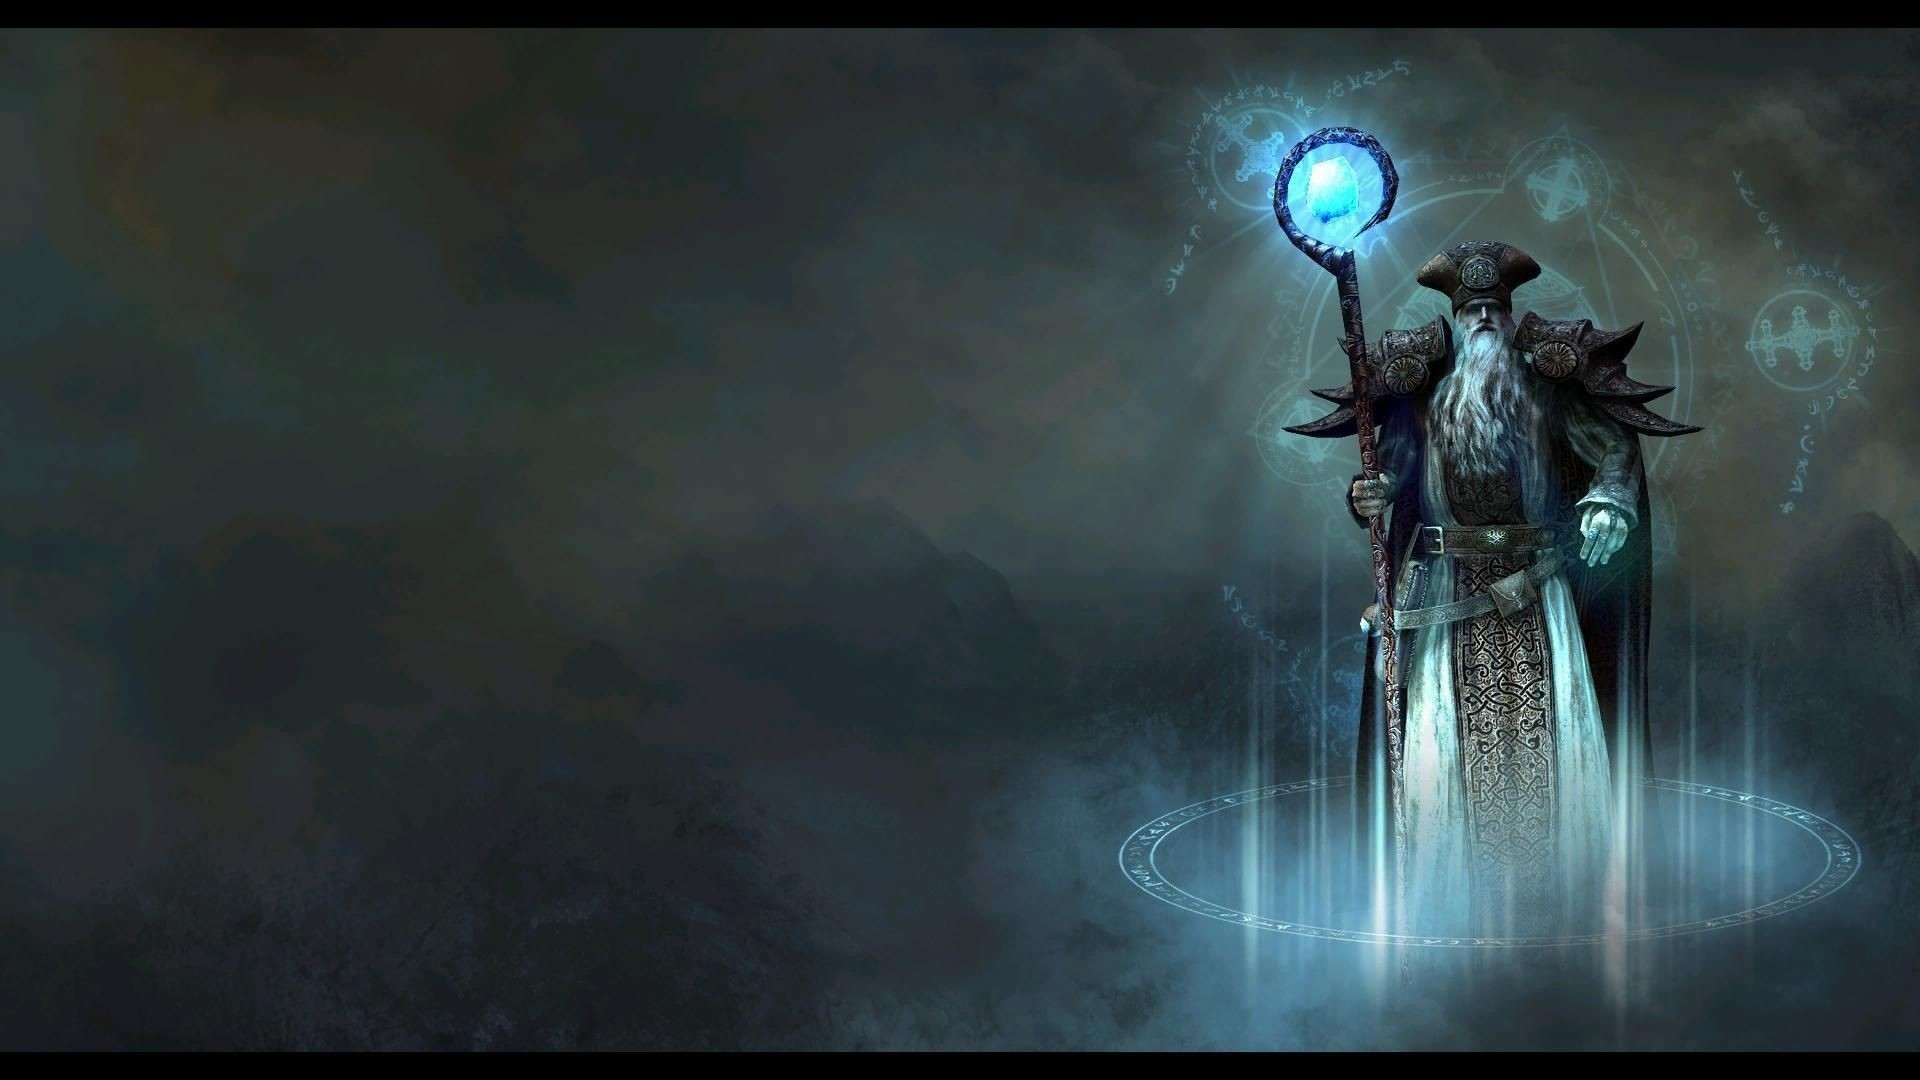
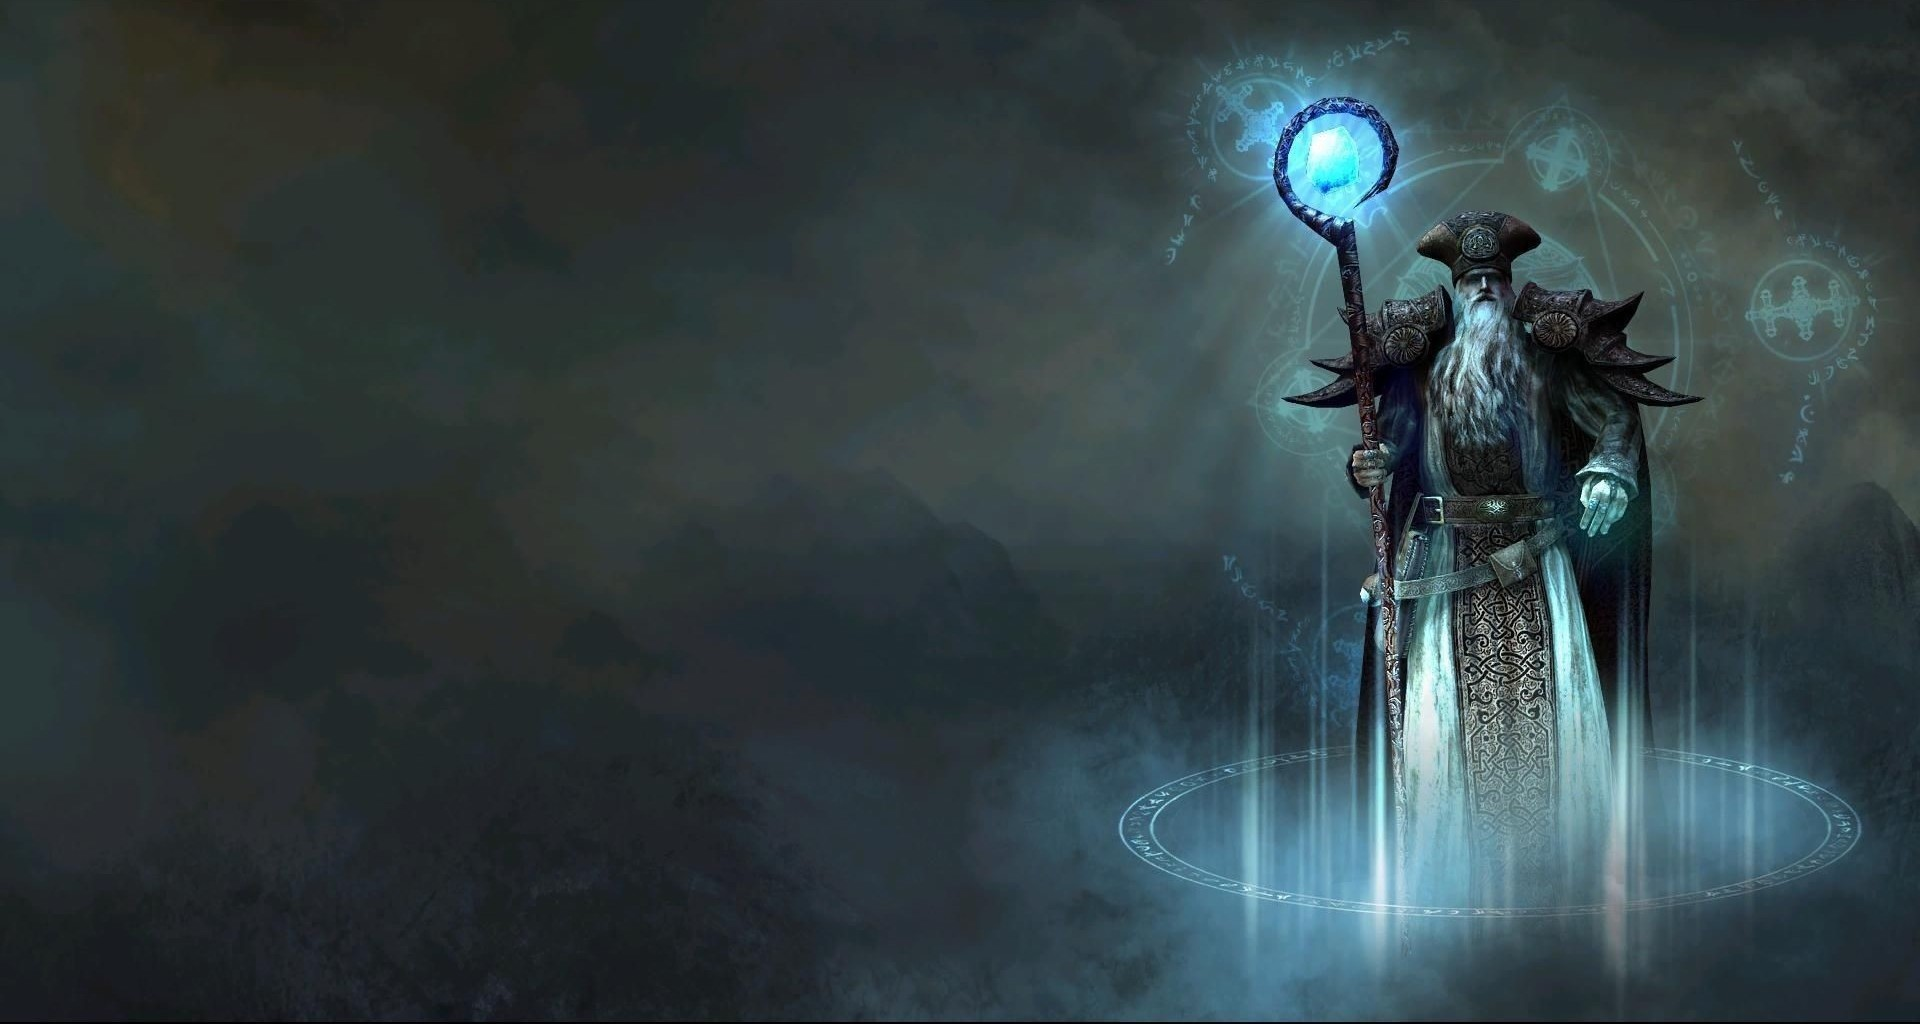
add pause and quit buttons

diff --git a/index.html b/index.html
@@ -13,23 +13,28 @@
     <script src="js/fireball.js"></script>
   </head>
   <body>
-    <!-- <div class="icons">
-      <a href="https://www.linkedin.com/in/justin-lieu-024744150/" target="_blank"><i class="fa fa-linkedin fa-2x"></i></a>
-      <a href="https://github.com/JustinLieu06/codingwizard" target="_blank"><i class="fa fa-github fa-2x"></i></a>
-      <a href="https://angel.co/justin-lieu?public_profile=1" target="_blank"><i class="fa fa-angellist fa-2x"></i></a>
-    </div> -->
     <div class="score">
-        <span>Lives:</span>
-        <span id="lives">4</span>
-        <span>Score:</span>
-        <span id="score">0</span>
-      </div>
+      <span>Lives:</span>
+      <span id="lives">4</span>
+      <span>Score:</span>
+      <span id="score">0</span>
+      <button onclick="stop()" id="pause">Pause</button>
+      <button onclick="end()" id="pause">Quit</button>
+    </div>
     <div class="gameCanvas"><canvas></canvas></div>
 
     <div id="startWrapper">
+      <div class="icons">
+        <a href="https://www.linkedin.com/in/justin-lieu-024744150/" target="_blank"><i class="fa fa-linkedin fa-2x"></i></a>
+        <a href="https://github.com/JustinLieu06/codingwizard" target="_blank"><i class="fa fa-github fa-2x"></i></a>
+        <a href="https://angel.co/justin-lieu?public_profile=1" target="_blank"><i class="fa fa-angellist fa-2x"></i></a>
+      </div>
       <h1 id="title">Coding Wizard</h1>
+      <button type="button" id="startBtn" onclick="loop()">Start</button>
+      
+      <div id="gameOver">Game Over</div>
 
-      <div class="hover"><div class="hover-inner"><i class="fa fa-arrow-circle-down"></i> INSTRUCTIONS <i class="fa fa-arrow-circle-down"></i></div>
+      <div class="hover" id="hover"><div class="hover-inner"><i class="fa fa-arrow-circle-down"></i> INSTRUCTIONS <i class="fa fa-arrow-circle-down"></i></div>
       <div class="instructions">
         <h3>Overview:</h3>
         <div id="inst">You are playing as a coding wizard who casts powerful programming magic to defeat the bugs in your developed universe.</div><br />
@@ -43,10 +48,9 @@
         <div id="inst">Having a bug reach you decreases the score and you lose a life. At 0 lives, the game ends</div>
       </div>
       </div>
-
-      <button type="button" id="startBtn" onclick="loop()">Start</button>
       
-      <div id="gameOver">Game Over</div>
+      <!-- <button onclick="reset()" id="reset">Play Again</button> -->
+
     </div>
 
     <audio src="sounds/fireball.mp3" id="fireballSound"></audio>
@@ -72,6 +76,7 @@
       let livesDiv = document.getElementById("lives");
       let startBtn = document.getElementById("startBtn");
       let gameOver = document.getElementById("gameOver");
+      let hover = document.getElementById("hover");
       gameOver.style.display = "none";
       let startWrapper = document.getElementById("startWrapper");
       let playerSpeed = 3;
@@ -162,7 +167,6 @@
           let rand = Math.floor(Math.random() * 80);
           let bugSpriteRand = Math.floor(Math.random() * 4);
           let bugSpeedRand = Math.random() / 1.8 + 0.2;
-          // let bugSpeedRand = 0.4;
           if (rand === 1){
             bugArr.push(new Bug(tileXCoor, tileYCoor, bugSpeedRand, bugSpriteRand, playerSpeed, 1, 1));
           }
@@ -196,6 +200,7 @@
         // window.requestAnimationFrame(loop);
         startBtn.style.display = "none";
         startWrapper.style.display = "none";
+        hover.style.display = "none";
         context.canvas.height = height;
         context.canvas.width = width;
         // context.fillStyle = "#008000";
@@ -393,13 +398,7 @@
         // context.clearRect(0, viewport.height, width, height);
         //Game Over
         if (lives <= 0){
-          gameOver.style.display = "inline";
-          // startBtn.style.display = "inline";
-          startWrapper.style.display = "inline";
-          // scoreDiv.style.display = "none";
-          // livesDiv.style.display = "none";
-          // window.cancelAnimationFrame(loop);
-          stop();
+          end();
         }
       }
       function start() {
@@ -409,9 +408,27 @@
       }
       function stop() {
         if (requestId) {
+          document.getElementById("pause").innerHTML = "Resume";
           window.cancelAnimationFrame(requestId);
           requestId = undefined;
+        } else {
+          document.getElementById("pause").innerHTML = "Pause";
+          start();
         }
+      }
+      function end(){
+        gameOver.style.display = "inline";
+        startWrapper.style.display = "inline";
+        stop();
+      }
+      function reset(){
+        lives = 4;
+        livesDiv.innerHTML = lives;
+        score = 0;
+        scoreDiv.innerHTML = score;
+        gameOver.style.display = "none";
+        startWrapper.style.display = "none";
+        start();
       }
       //////////////////////////////////////////////////
       //ADD KEY LISTENERS///////////////////////////////////

diff --git a/css/game.css b/css/game.css
@@ -19,7 +19,6 @@ h1, h2, h3, h4, h5, p, div, span, a {
   text-align: center;
   font-family: luminari;
   user-select: none;
-
 }
 
 li, p {
@@ -36,6 +35,7 @@ li, p {
   margin: auto;
   display: flex;
   justify-content: space-between;
+  padding-top: 20px;
 }
 
 .score {
@@ -43,11 +43,25 @@ li, p {
   margin: auto;
 }
 
+#pause {
+  font-family: luminari;
+  width: 55px;
+}
+
+#reset {
+  font-family: luminari;
+  width: 90px;
+  top: 500px;
+  position: absolute;
+}
+
 .instructions {
   display: none;
   width: 300px;
   position: absolute;
+  left: calc(50% - 150px);
   border: solid 1px white;
+  border-radius: 25px;
 }
 
 #inst {
@@ -59,21 +73,21 @@ li, p {
 }
 
 .hover {
-  top: 200px;
-  left: calc(50% - 100px);
+  top: 220px;
+  left: calc(50% - 90px);
   position: absolute;
   width: 175px;
 }
 
 #title {
-  padding-top: 50px;
+  padding-top: 20px;
   text-shadow: -1px 0 black, 0 1px black, 1px 0 black, 0 -1px black;
-  color: #7FDBFF;
+  color: #B0E0E6;
 }
 
 #startBtn {
   left: calc(50% - 50px);
-  top: 100px;
+  padding-top: 20px;
   position: absolute;
   height: 50px;
   width: 100px;
@@ -86,12 +100,12 @@ li, p {
 
 #startBtn:hover {
   cursor: pointer;
-  color: lightgrey;
+  /* color: #B0E0E6; */
 }
 
 #gameOver {
-  left: 150px;
-  top: 150px;
+  left: calc(50% - 50px);
+  padding-top: 20px;
   position: absolute;
   height: 50px;
   width: 100px;
@@ -108,6 +122,5 @@ li, p {
   position: absolute;
   background-image: url("../images/wizbackground.jpg");
   background-repeat: no-repeat;
-  background-size: 100% 100%;
-  border: solid 1px pink;
+  background-size: cover;
 }
